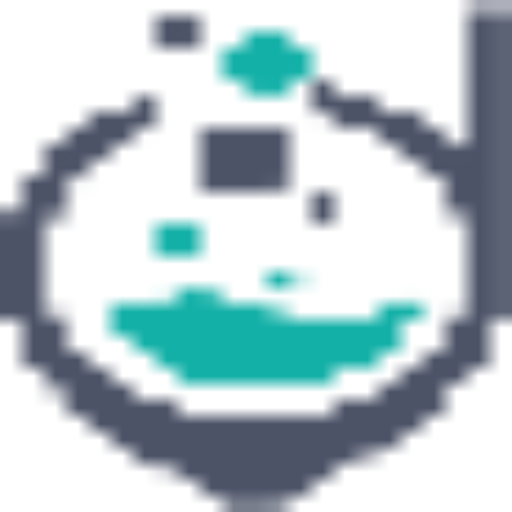
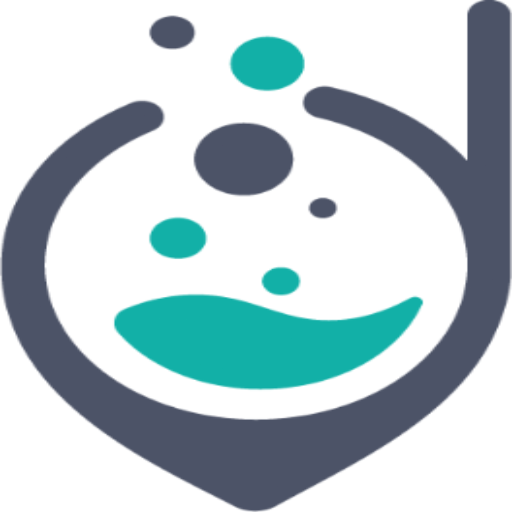
Feautre/update website (#20)
* update assets

* refactor postcode input

* hide services feature flag

* favicon + pickup_delivery clean up

* fix voucher input, better error handling at pay

* update readme

* removed test data

* update hero section text and image

* updated

Changed region(s): [[0.0, 0.0, 1.0, 1.0]]

diff --git a/src/views/CheckOut.vue b/src/views/CheckOut.vue
@@ -19,24 +19,26 @@
 
                 <form action>
                   <div class="form__row">
-                    <BaseInput :placeholder="'Full name'" :type="'text'" @update:modelValue="(v) => details.name = v"
-                      :modelValue="details.name" :error="errors.name" label="Name" />
-                    <BaseInput :placeholder="'Phone'" type="tel" @update:modelValue="(v) => details.phone = v"
-                      :modelValue="details.phone" :error="errors.phone" label="Phone number" pattern="^\d{11}$"
-                      max="11" />
+                    <BaseInput showInputLabel :placeholder="'Full name'" :type="'text'"
+                      @update:modelValue="(v) => details.name = v" :modelValue="details.name" :error="errors.name"
+                      label="Name" />
+                    <BaseInput showInputLabel :placeholder="'Phone'" type="tel"
+                      @update:modelValue="(v) => details.phone = v" :modelValue="details.phone" :error="errors.phone"
+                      label="Phone number" pattern="^\d{11}$" max="11" />
                   </div>
 
-                  <BaseInput :placeholder="'Email'" :type="'email'" @update:modelValue="(v) => details.email = v"
-                    :modelValue="details.email" :error="errors.email" label="Email" />
-                  <BaseInput :placeholder="'Address Line 1'" :type="'text'"
+                  <BaseInput showInputLabel :placeholder="'Email'" :type="'email'"
+                    @update:modelValue="(v) => details.email = v" :modelValue="details.email" :error="errors.email"
+                    label="Email" />
+                  <BaseInput showInputLabel :placeholder="'Address Line 1'" :type="'text'"
                     @update:modelValue="(v) => location.line_1 = v" :modelValue="location.line_1" :error="errors.address"
                     label="Address Line 1" />
-                  <BaseInput :placeholder="'Address Line 2'" :type="'text'"
+                  <BaseInput showInputLabel :placeholder="'Address Line 2'" :type="'text'"
                     @update:modelValue="(v) => location.landmark = v" :modelValue="location.landmark"
                     label="Address Line 2" />
-                  <BaseInput readonly :placeholder="'Post Code'" :type="'text'" :modelValue="location.postcode"
-                    :name="'checkoutPostCode'" :error="errors.postCode" label="Post Code" @change.native="sendZipCode"
-                    @input.native="sendZipCode" />
+                  <BaseInput showInputLabel readonly :placeholder="'Post Code'" :type="'text'"
+                    :modelValue="location.postcode" :name="'checkoutPostCode'" :error="errors.postCode" label="Post Code"
+                    @change.native="sendZipCode" @input.native="sendZipCode" />
                 </form>
                 <p :class="postCodeError.type">{{ postCodeError.msg }}</p>
               </div>

diff --git a/src/components/BaseInput.vue b/src/components/BaseInput.vue
@@ -1,10 +1,11 @@
 <template>
   <div>
+    <label class="input-label" v-if="showInputLabel">{{ placeholder }}</label>
     <div class="container">
       <img :src="require(`@/images/${logo}`)" alt="place-holder-logo" v-if="logo" />
-      <input @blur="$emit('blur')" :readonly="readonly" :pattern="pattern" :aria-label="label" :type="type" :placeholder="placeholder"
-        :value="modelValue"  @focus="$emit('my-focus', name)" @input="$emit('update:modelValue', $event.target.value)"
-        :id="name" :maxlength="max" />
+      <input @blur="$emit('blur')" :readonly="readonly" :pattern="pattern" :aria-label="label" :type="type"
+        :placeholder="placeholder" :value="modelValue" @focus="$emit('my-focus', name)"
+        @input="$emit('update:modelValue', $event.target.value)" :id="name" :maxlength="max" />
     </div>
     <p class="error" v-if="error">{{ error }}</p>
   </div>
@@ -37,6 +38,10 @@ export default {
     pattern: {},
     error: {},
     max: {},
+    showInputLabel: {
+      type: Boolean,
+      default: false
+    }
   },
   data() {
     return {
@@ -54,6 +59,11 @@ div {
   p {
     margin: 0.5rem 0;
   }
+}
+
+.input-label {
+  display: inline-flex;
+  margin-bottom: .5rem;
 }
 
 .container {

diff --git a/src/views/Payment.vue b/src/views/Payment.vue
@@ -15,7 +15,7 @@
                 <h4 class="items-text">Items</h4>
                 <div class="basket__items">
                   <div class="item" v-for="(item, index) in cart" :key="index">
-                    <p>{{ item.quantity }}X {{ item.item_name }}</p>
+                    <p>{{ item.quantity }}x {{ item.item_name }}</p>
                     <span>£{{ item.price }}</span>
                   </div>
                 </div>
@@ -372,6 +372,15 @@ export default {
   height: 100%;
   border-radius: 4px;
 
+  h4 {
+      font-weight: 300;
+    }
+
+    p,
+    span {
+      font-weight: 400;
+    }
+
   @media (max-width: $desktop) {
     flex-direction: column;
   }
@@ -407,18 +416,15 @@ export default {
         align-items: center;
         justify-content: space-between;
         margin: 0.5em 0;
+        p {
+          font-weight: 200;
+        }
+
         // border-bottom: 1px solid grey;
       }
     }
 
-    h4 {
-      font-weight: 300;
-    }
 
-    p,
-    span {
-      font-weight: 400;
-    }
   }
 
   textarea {

diff --git a/public/index.html b/public/index.html
@@ -5,10 +5,10 @@
   <meta charset="utf-8">
   <meta http-equiv="X-UA-Compatible" content="IE=edge">
   <meta name="viewport" content="width=device-width,initial-scale=1.0">
-  <link rel="apple-touch-icon" sizes="180x180" href="/apple-touch-icon.png">
-  <link rel="icon" type="image/png" sizes="32x32" href="/favicon-32x32.png">
-  <link rel="icon" type="image/png" sizes="16x16" href="/favicon-16x16.png">
-  <link rel="manifest" href="/site.webmanifest">
+<link rel="apple-touch-icon" sizes="180x180" href="/apple-touch-icon.png">
+<link rel="icon" type="image/png" sizes="32x32" href="/favicon-32x32.png">
+<link rel="icon" type="image/png" sizes="16x16" href="/favicon-16x16.png">
+<link rel="manifest" href="/site.webmanifest">
   <title>
     Drinsed
   </title>

diff --git a/src/components/PostcodePopUp.vue b/src/components/PostcodePopUp.vue
@@ -5,7 +5,7 @@
         <div class="popup__inner__container">
           <h3>Please enter a postcode to continue</h3>
           <div class="form-container">
-            <PostCodeInput inputName="#postcode-popup" @submit="proceedToPCheckout" buttonText="Proceed to payment" />
+            <PostCodeInput inputName="#postcode-popup" @submit="proceedToCheckout" buttonText="Proceed to payment" />
           </div>
         </div>
       </div>
@@ -31,7 +31,7 @@ export default {
       "setPostCodeError",
       "setisPostcodePopUpOpen",
     ]),
-    proceedToPCheckout() {
+    proceedToCheckout() {
       if (!this.location.formatedAddress) {
         this.setPostCodeError({
           type: "error",
